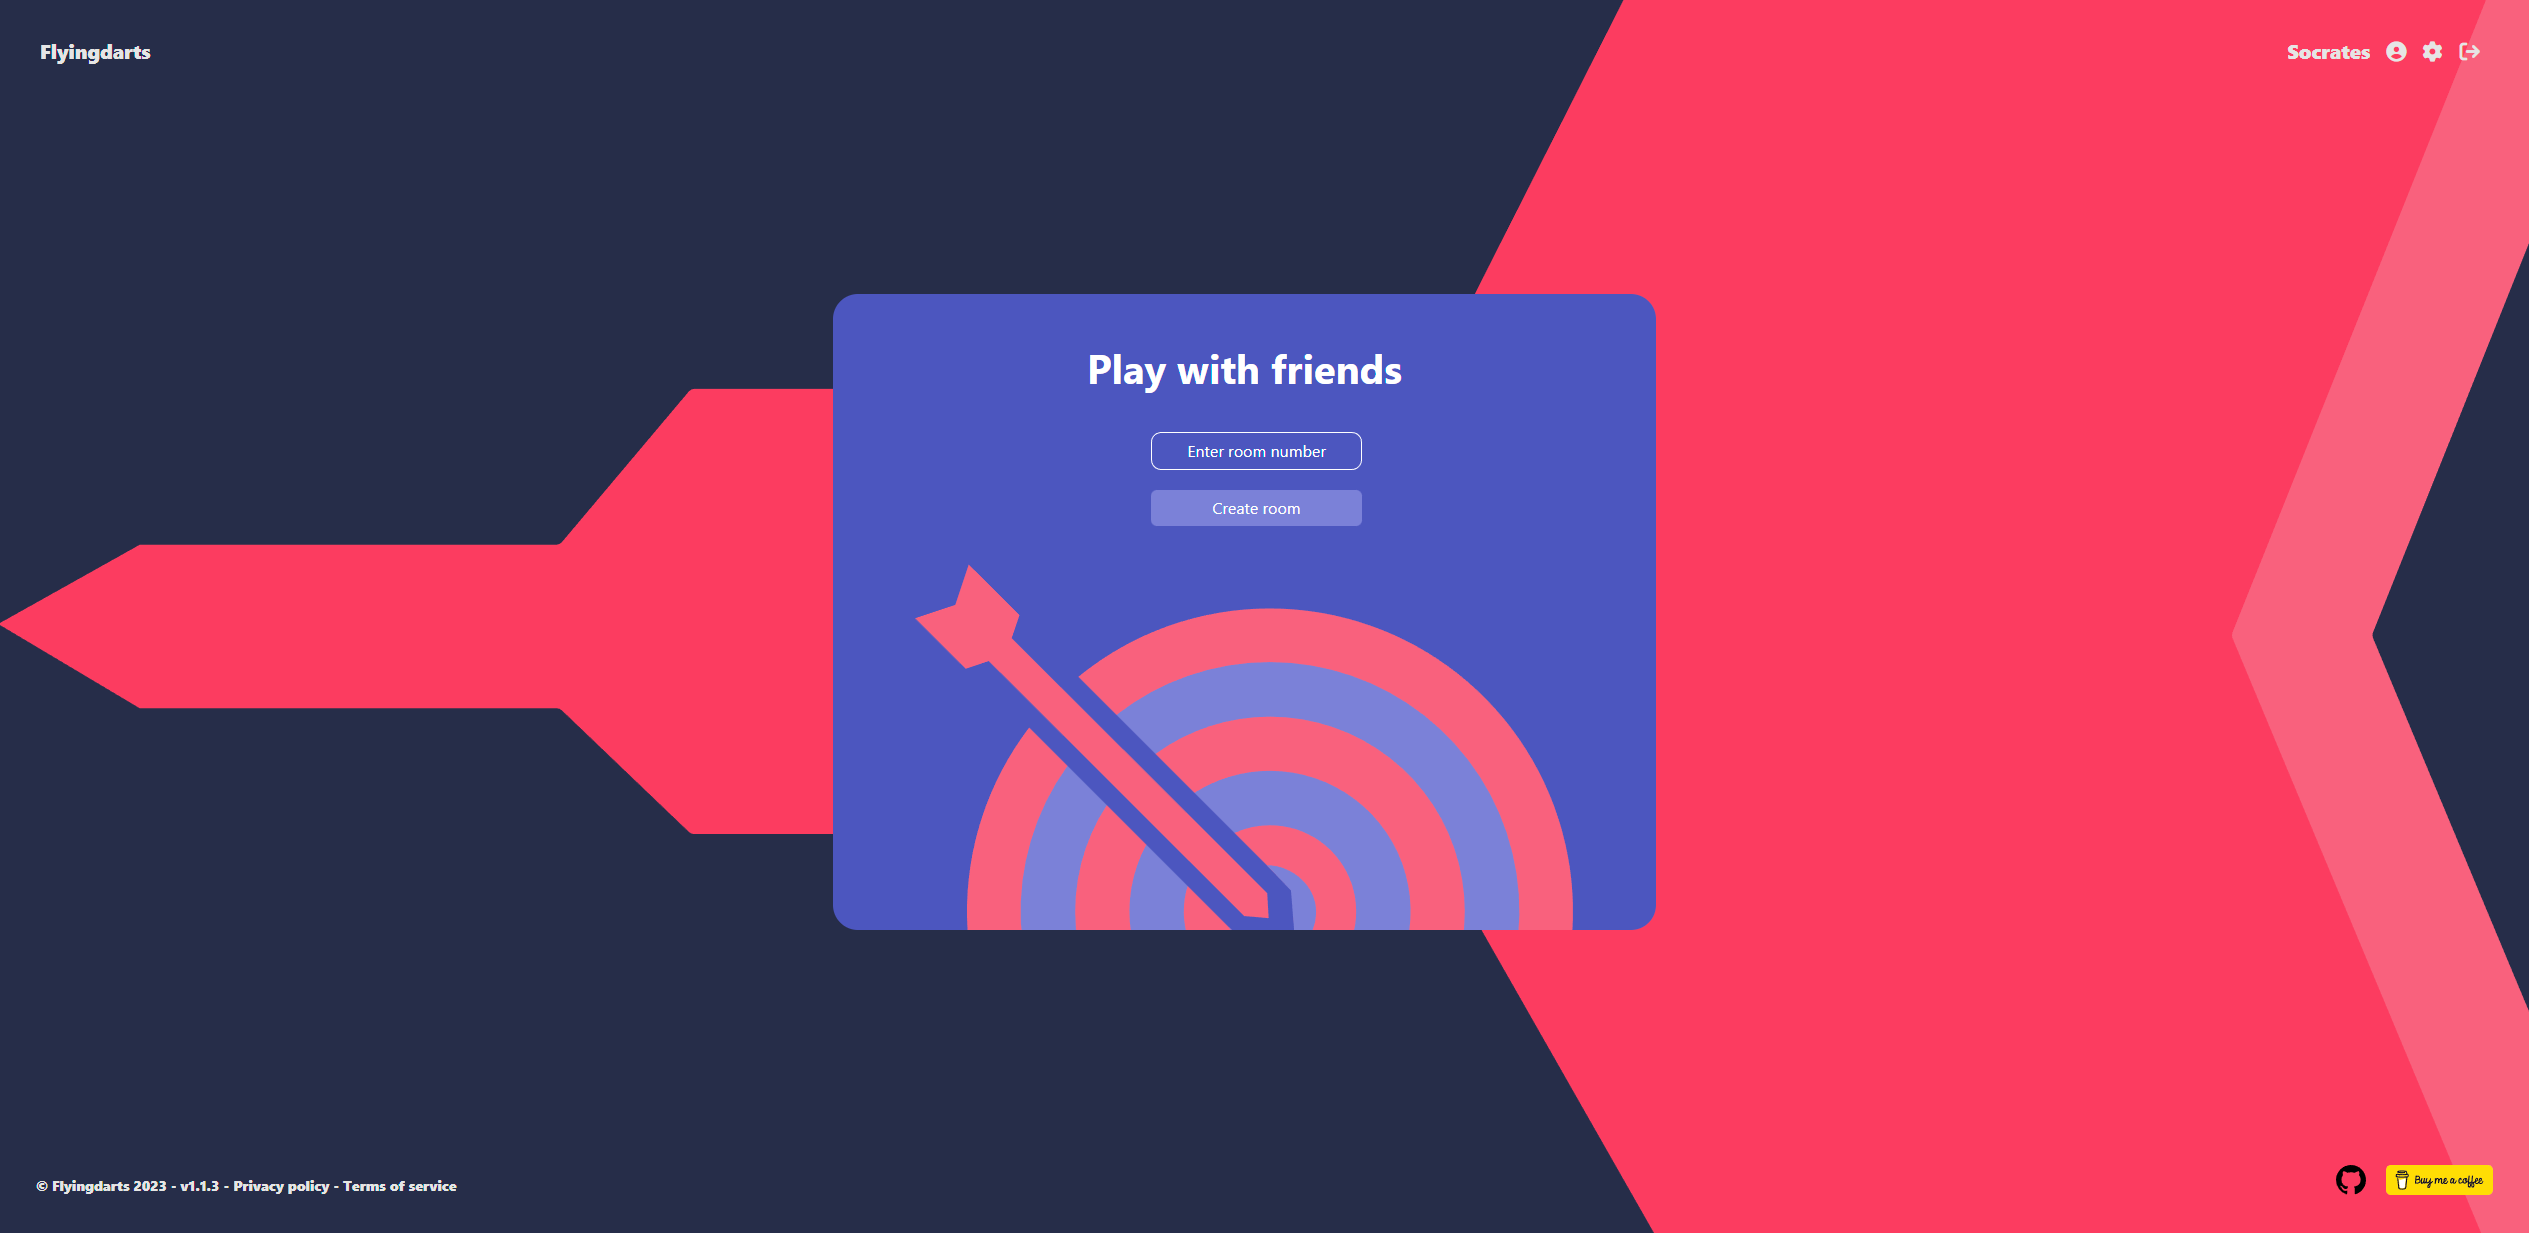
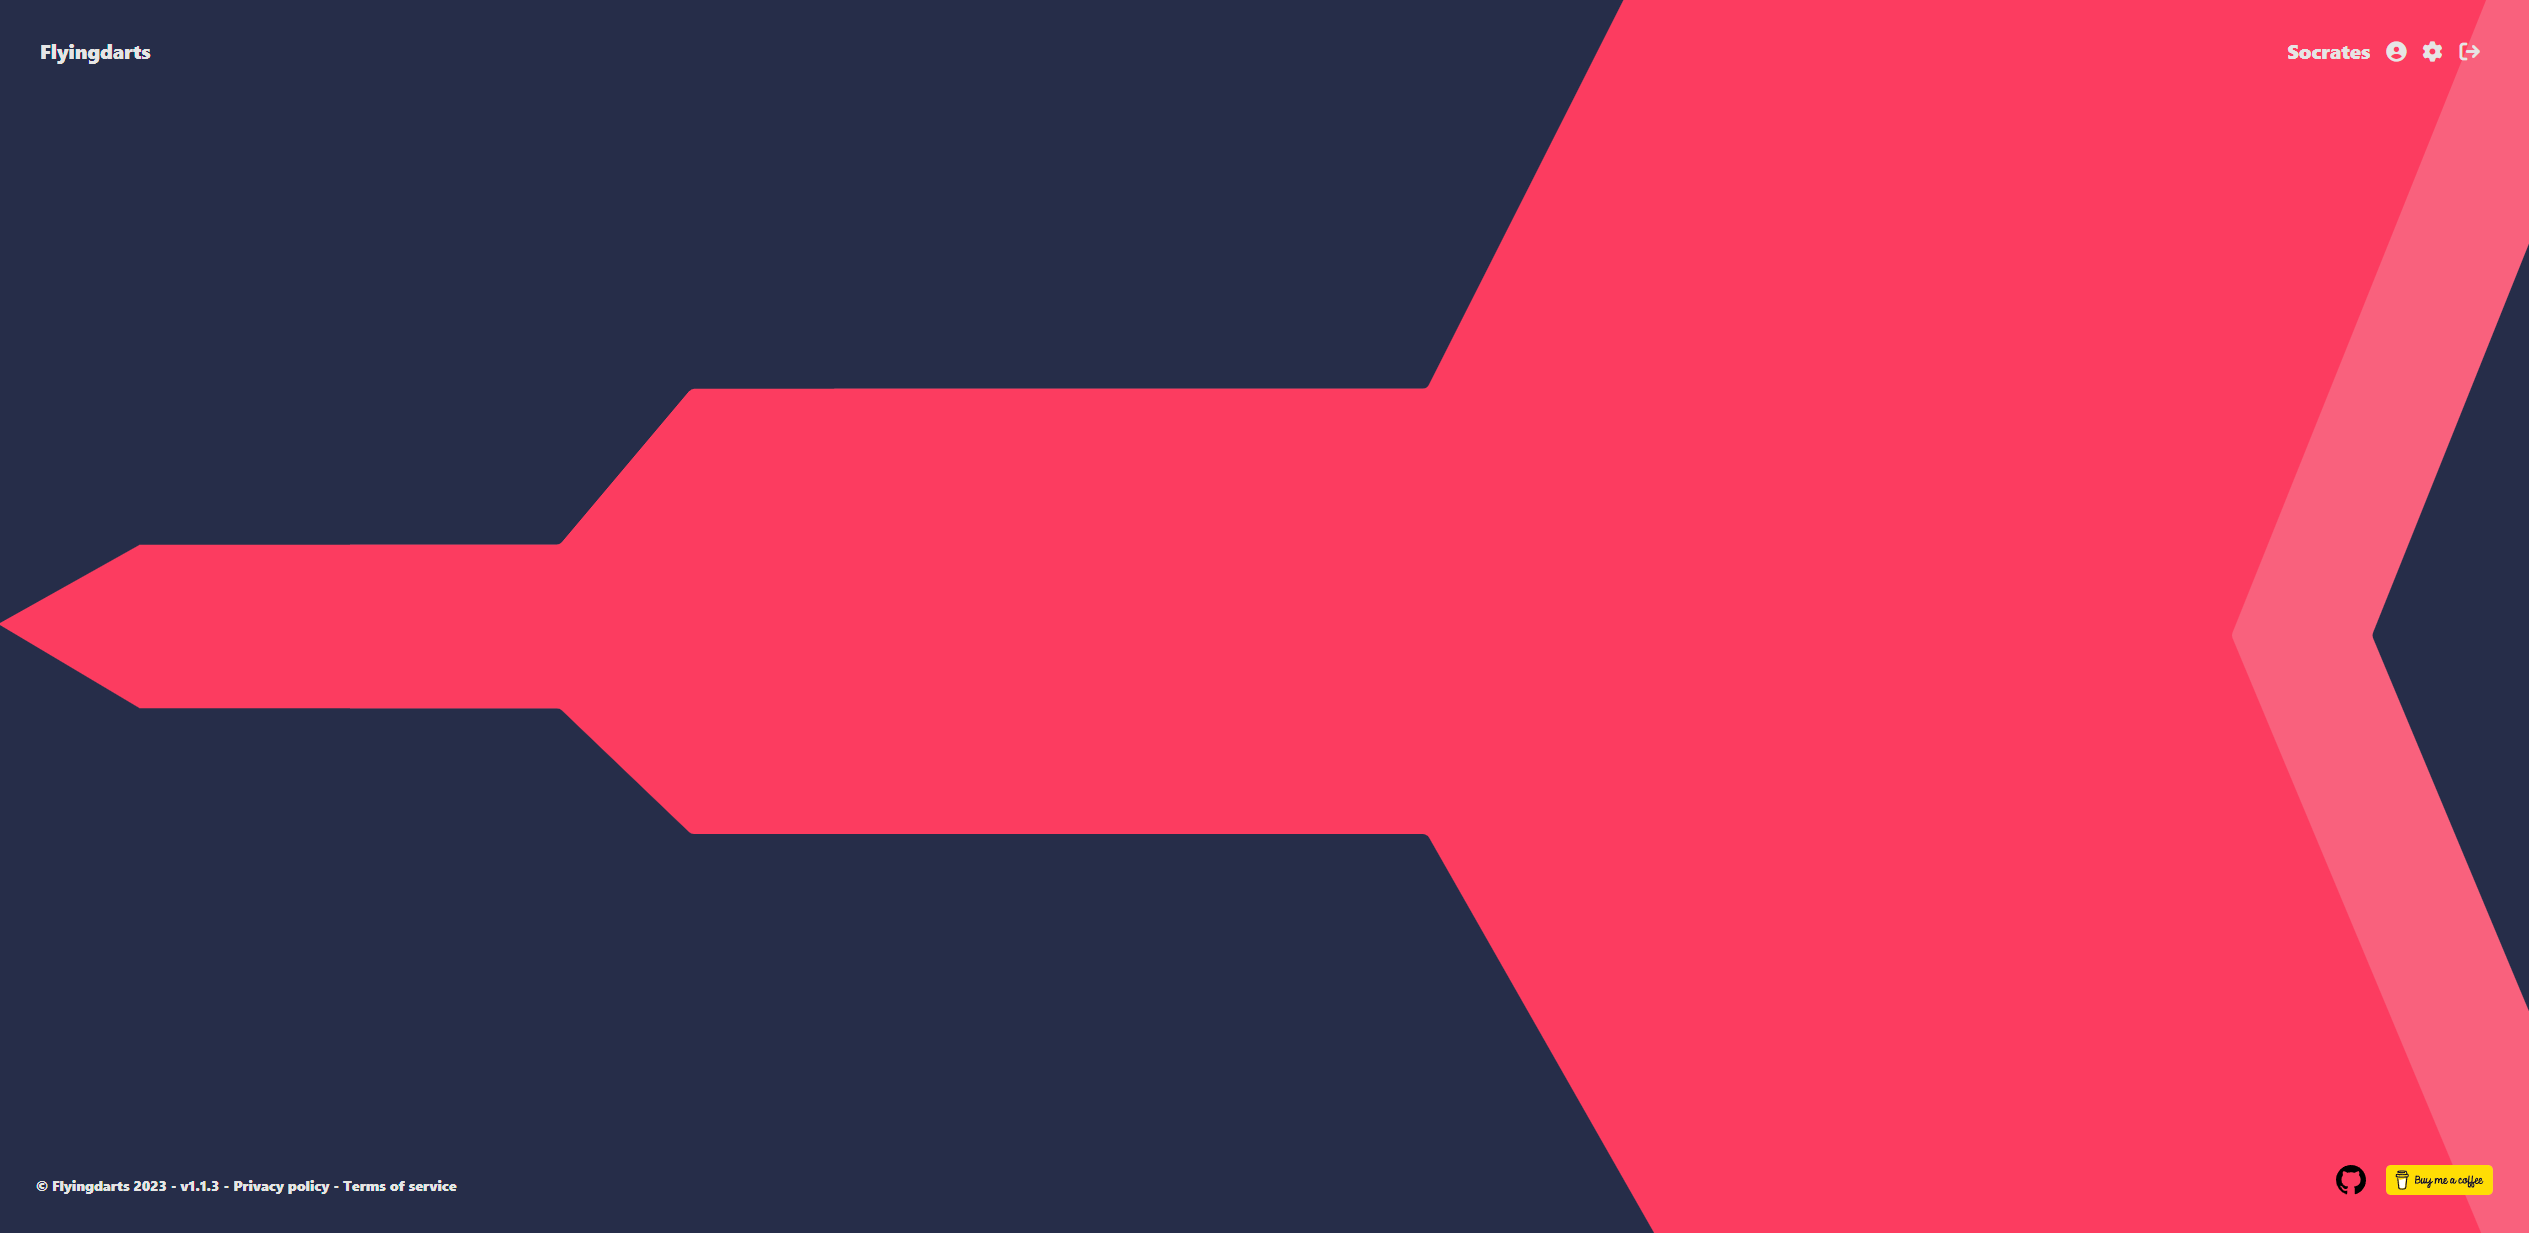
works

Changed region(s): [[0.3124, 0.2157, 0.656, 0.7705]]

diff --git a/e2e/src/steps/lobby.steps.ts b/e2e/src/steps/lobby.steps.ts
@@ -1,9 +1,9 @@
 import { Given, Then, When } from '@cucumber/cucumber';
 import { LobbyPage } from '../pages/lobby.page';
-import { AccountSettingsPage } from '../pages/account.settings.page';
 import { expect } from 'chai';
 import { browser } from 'protractor';
-import { AccountProfilePage } from '../pages/account.profile.page';
+
+const stepTimeout = 5000;
 
 let lobbyPage: LobbyPage;
 
@@ -19,19 +19,48 @@ Given(/^I can see (.*) in the nav-bar$/, async (userName: string) => {
 })
 
 When("I click on the profile button", async () => {
-    var accountProfilePage = new AccountProfilePage();
-    await accountProfilePage.open();
+    await lobbyPage.clickProfileButton();
 })
 
 When("I click on the settings button", async () => {
-    var accountSettingsPage = new AccountSettingsPage();
-    await accountSettingsPage.open();
+    await lobbyPage.clickSettingsButton();
 })
 
-Then("the account/profile page is loaded", async () => {
-    expect(await browser.getCurrentUrl()).to.contain("profile");
+When("I click on the play with friends button", async () => {
+    await lobbyPage.clickGameWithFriends();
 })
 
-Then("the account/settings page is loaded", async () => {
-    expect(await browser.getCurrentUrl()).to.contain("settings");
+Then("the account/profile page is loaded", { timeout: 30000 }, async () => {
+    await wait(stepTimeout);
+
+    await browser.waitForAngularEnabled(false);
+    var currentUrl = await browser.getCurrentUrl();
+    await browser.waitForAngularEnabled(false);
+
+    expect(currentUrl).to.contain("profile");
 })
+
+Then("the account/settings page is loaded", { timeout: 30000 }, async () => {
+    await browser.waitForAngularEnabled(false);
+    var currentUrl = await browser.getCurrentUrl();
+    await browser.waitForAngularEnabled(false);
+
+    expect(currentUrl).to.contain("settings");
+})
+
+// Then("the game page is loaded", { timeout: 30000 }, async () => {
+//     await wait(stepTimeout);
+
+//     await browser.waitForAngularEnabled(false);
+//     var currentUrl = await browser.getCurrentUrl();
+//     await browser.waitForAngularEnabled(false);
+
+//     expect(currentUrl).to.contain("x01");
+// })
+
+
+function wait(ms: number): Promise<void> {
+    return new Promise<void>(resolve => {
+        setTimeout(resolve, ms);
+    });
+}

diff --git a/src/app/shared/lobby/lobby.component.html b/src/app/shared/lobby/lobby.component.html
@@ -11,9 +11,9 @@
                             <div class="form-group">
                                 <h1 class="fw-bold my-sign-in-header">Play with friends</h1>
                                 <div class="form-check">
-                                    <input class="form-control room-number-input" placeholder="Enter room number"
-                                        type="text" value="" id="roomNumber" checked>
-                                    <button class="form-control create-room-button">Create room</button>
+                                    <!-- <input class="form-control room-number-input" placeholder="Enter room number"
+                                        type="text" value="" id="roomNumber" checked> -->
+                                    <button id="gameWithFriendsButton" class="form-control create-room-button" (click)="joinX01Queue()">Create room</button>
                                 </div>
                             </div>
                         </div>

diff --git a/e2e/src/hooks/after.each.hooks.ts b/e2e/src/hooks/after.each.hooks.ts
@@ -1,0 +1,27 @@
+import { After } from "@cucumber/cucumber";
+import { browser } from "protractor";
+import fs from 'fs';
+import path from 'path';
+
+After(async (scenario) => {
+    // Access the scenario name
+    var screenshotName = scenario.pickle.name;
+
+    // Modify scenaria name
+    screenshotName = screenshotName.replace(/[\/ ]/g, '_').toLowerCase();
+
+    // Take a screenshot
+    const screenshot = await browser.takeScreenshot();
+
+    // Define path
+    const screenshotPath = path.join(__dirname, '../../screenshots', `${screenshotName}.png`);
+
+    fs.writeFileSync(screenshotPath, screenshot, 'base64');
+})
+
+
+function wait(ms: number): Promise<void> {
+    return new Promise<void>(resolve => {
+        setTimeout(resolve, ms);
+    });
+}

diff --git a/e2e/src/pages/lobby.page.ts b/e2e/src/pages/lobby.page.ts
@@ -11,6 +11,7 @@ export class LobbyPage extends BasePage {
     private userNameField: ElementFinder = element(by.id("loggedInUserName"));
     private profileButtonField: ElementFinder = element(by.id("profileButton"));
     private settingsButtonField: ElementFinder = element(by.id("settingsButton"));
+    private gameWithFriendsButton: ElementFinder = element(by.id("gameWithFriendsButton"));
 
     async getNickname() {
         return await this.userNameField.getText();
@@ -26,5 +27,9 @@ export class LobbyPage extends BasePage {
 
     async getCurrentUrl() {
         return await browser.getCurrentUrl();
+    }
+
+    async clickGameWithFriends() {
+        return await this.gameWithFriendsButton.click();
     }
 }

diff --git a/cucumber.config.js b/cucumber.config.js
@@ -1,12 +1,9 @@
 exports.config = {
     framework: 'custom',
     frameworkPath: require.resolve('protractor-cucumber-framework'),
-    specs: ['./e2e/**/*.feature'],
+    directConnect: true,
     cucumberOpts: {
         require: ['./e2e/out/steps/**/*.steps.js', './e2e/out/hooks/*.hooks.js'],
     },
-    capabilities: {
-        browserName: 'chrome',
-    },
-    directConnect: true,
+    specs: ['./e2e/**/*.feature'],
 }

diff --git a/e2e/src/hooks/requires-registered-user.hooks.ts b/e2e/src/hooks/requires-registered-user.hooks.ts
@@ -30,7 +30,7 @@ Before({ tags: "@requires-registered-user", timeout: 10 * 1000 }, async () => {
     await wait(2 * 1000);
 })
 
-After({ tags: "@requires-registered-user" }, async () => {
+After({ tags: "@requires-registered-user" }, async (s) => {
     await browser.executeScript('localStorage.clear();');
 })
 

diff --git a/e2e/src/steps/game.steps.ts b/e2e/src/steps/game.steps.ts
@@ -1,0 +1,11 @@
+import { Given } from "@cucumber/cucumber";
+import { GamePage } from "../pages/game.page";
+
+let gamePage: GamePage;
+
+Given(/^the game page is loaded$/, async () => {
+    gamePage = new GamePage();
+
+    await gamePage.open();
+    await gamePage.verify();
+})

diff --git a/e2e/src/pages/game.page.ts b/e2e/src/pages/game.page.ts
@@ -1,0 +1,9 @@
+import { BasePage } from "./base.page";
+
+export class GamePage extends BasePage {
+    readonly partialUrl = "/x01/638286987074415329";
+
+    protected override getPartialUrl(): string {
+        return this.partialUrl;
+    }
+}
